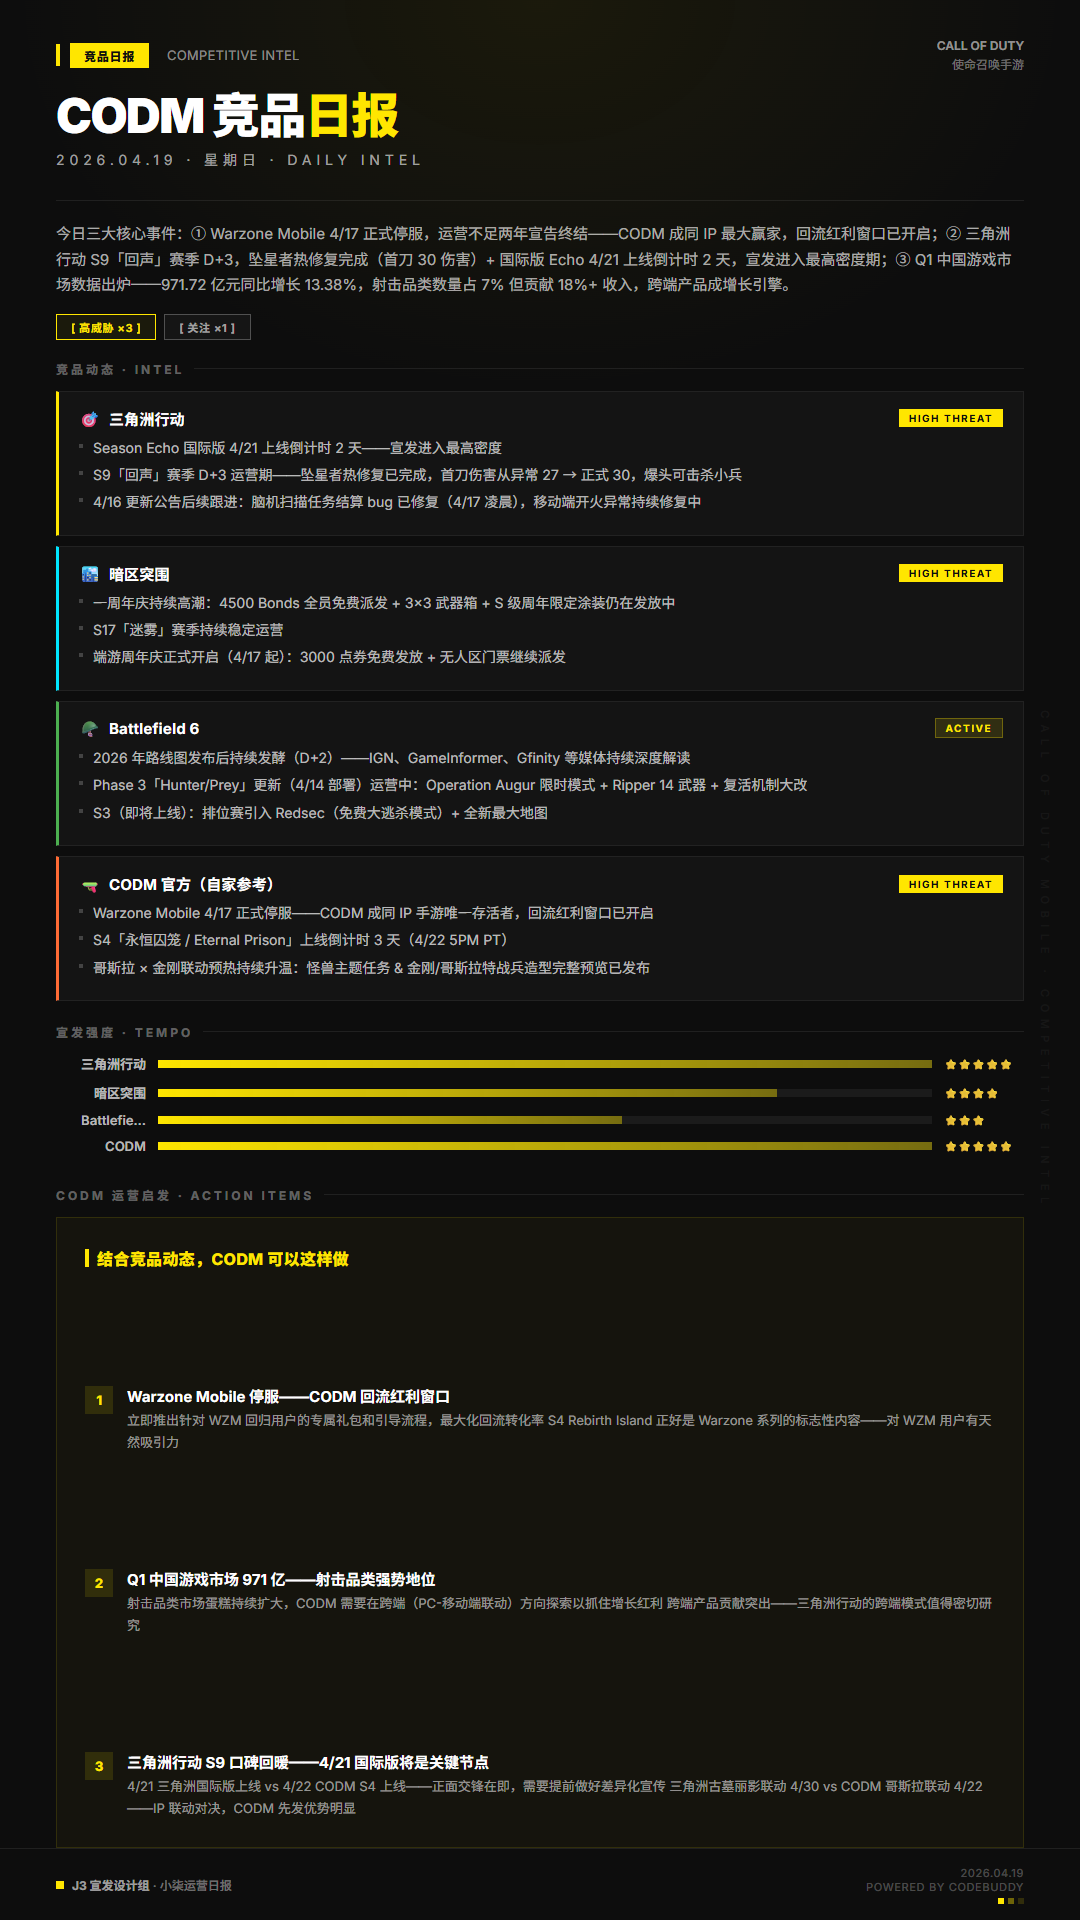
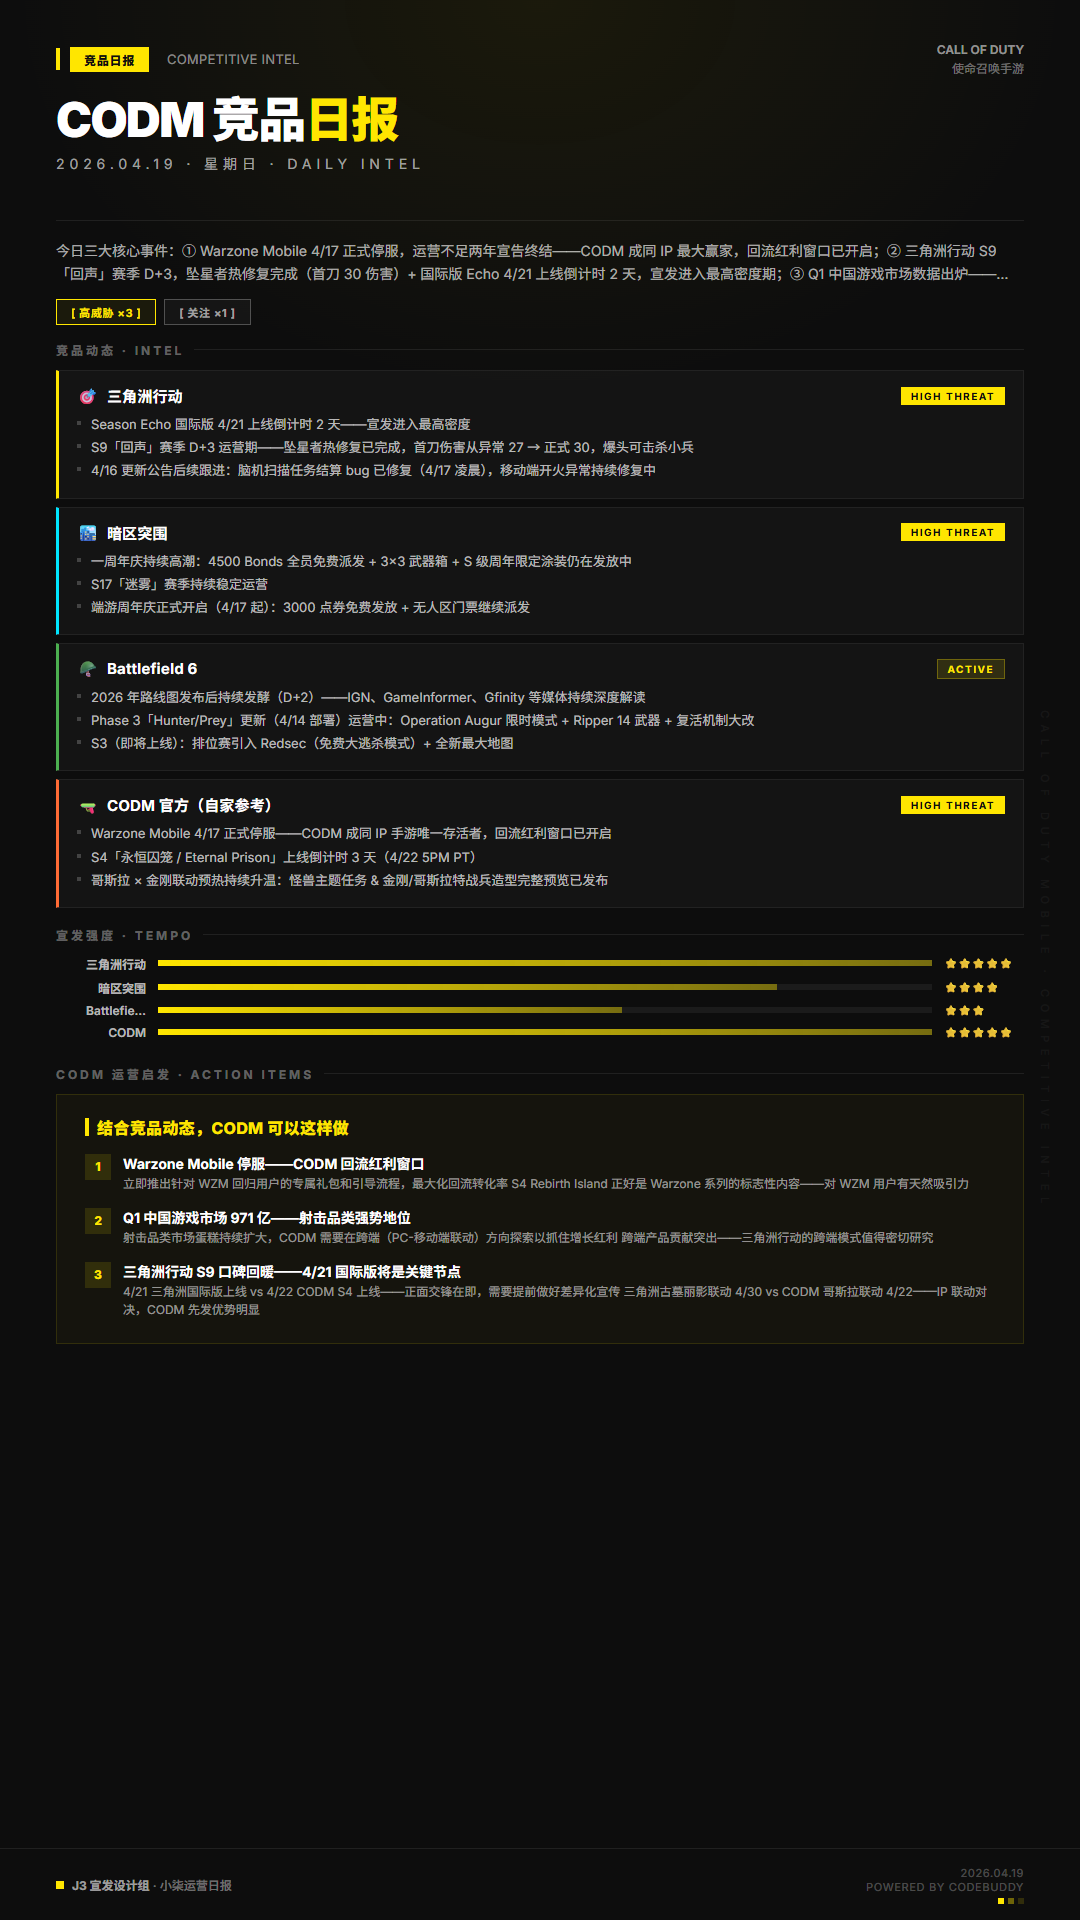
daily: CODM Competitive 20260419

diff --git a/docs/competitive-daily/competitive-daily-card-20260419.html b/docs/competitive-daily/competitive-daily-card-20260419.html
@@ -53,8 +53,8 @@
 
   /* ── Cover 区 ── */
   .cover {
-    height: 200px;
-    padding: 36px 56px 0;
+    height: 220px;
+    padding: 40px 56px 0;
     flex-shrink: 0;
     position: relative;
     z-index: 1;
@@ -134,16 +134,16 @@
 
   /* ── 概览区 ── */
   .overview {
-    padding: 20px 56px 16px;
+    padding: 18px 56px 14px;
     flex-shrink: 0;
   }
 
   .overview-text {
-    font-size: 15px;
+    font-size: 14px;
     color: rgba(255,255,255,0.65);
-    line-height: 1.7;
+    line-height: 1.65;
     display: -webkit-box;
-    -webkit-line-clamp: 4;
+    -webkit-line-clamp: 2;
     -webkit-box-orient: vertical;
     overflow: hidden;
   }
@@ -155,7 +155,7 @@
     display: flex;
     gap: 8px;
     padding: 0 56px;
-    margin-bottom: 20px;
+    margin-bottom: 16px;
     flex-shrink: 0;
   }
 
@@ -194,7 +194,7 @@
     color: rgba(255,255,255,0.35);
     letter-spacing: 0.25em;
     text-transform: uppercase;
-    margin-bottom: 14px;
+    margin-bottom: 12px;
     display: flex;
     align-items: center;
     gap: 10px;
@@ -212,8 +212,8 @@
   .comp-cards {
     display: flex;
     flex-direction: column;
-    gap: 10px;
-    margin-bottom: 22px;
+    gap: 8px;
+    margin-bottom: 18px;
     flex-shrink: 0;
   }
 
@@ -221,7 +221,7 @@
     background: #141414;
     border: 0.5px solid rgba(255,255,255,0.06);
     border-left: 3px solid #888;
-    padding: 16px 20px;
+    padding: 14px 18px;
   }
 
   .comp-header {
@@ -267,12 +267,12 @@
   }
 
   .comp-highlight {
-    font-size: 14px;
+    font-size: 13px;
     color: rgba(255,255,255,0.7);
-    line-height: 1.6;
+    line-height: 1.55;
     padding-left: 14px;
     position: relative;
-    margin-bottom: 5px;
+    margin-bottom: 3px;
   }
 
   .comp-highlight::before {
@@ -287,7 +287,7 @@
 
   /* ── 宣发节奏对比 ── */
   .tempo-section {
-    margin-bottom: 22px;
+    margin-bottom: 18px;
     flex-shrink: 0;
   }
 
@@ -295,12 +295,12 @@
     display: flex;
     align-items: center;
     gap: 12px;
-    margin-bottom: 10px;
+    margin-bottom: 7px;
   }
 
   .tempo-name {
     width: 90px;
-    font-size: 13px;
+    font-size: 12px;
     font-weight: 600;
     color: rgba(255,255,255,0.7);
     flex-shrink: 0;
@@ -309,7 +309,7 @@
 
   .tempo-bar-bg {
     flex: 1;
-    height: 8px;
+    height: 6px;
     background: rgba(255,255,255,0.06);
     position: relative;
   }
@@ -328,21 +328,19 @@
 
   /* ── CODM 运营启发 ── */
   .insights-section {
-    flex: 1;
+    flex-shrink: 0;
     display: flex;
     flex-direction: column;
     overflow: hidden;
-    min-height: 0;
   }
 
   .insights-box {
     background: rgba(255,230,0,0.03);
     border: 1px solid rgba(255,230,0,0.12);
-    padding: 28px 28px;
-    flex: 1;
+    padding: 20px 28px;
     display: flex;
     flex-direction: column;
-    justify-content: space-between;
+    gap: 6px;
   }
 
   .insights-header {
@@ -353,6 +351,7 @@
     display: flex;
     align-items: center;
     gap: 8px;
+    margin-bottom: 4px;
   }
 
   .insights-header::before {
@@ -365,16 +364,17 @@
 
   .insight-item {
     display: flex;
-    gap: 14px;
+    gap: 12px;
     align-items: flex-start;
+    padding: 4px 0;
   }
 
   .insight-num {
-    width: 28px;
-    height: 28px;
+    width: 26px;
+    height: 26px;
     background: rgba(255,230,0,0.12);
     color: #FFE600;
-    font-size: 13px;
+    font-size: 12px;
     font-weight: 800;
     display: flex;
     align-items: center;
@@ -383,19 +383,24 @@
     margin-top: 1px;
   }
 
-  .insight-body { flex: 1; }
+  .insight-body {
+    flex: 1;
+    display: flex;
+    flex-direction: column;
+    gap: 2px;
+  }
 
   .insight-title {
-    font-size: 15px;
+    font-size: 14px;
     font-weight: 700;
     color: #FFFFFF;
-    margin-bottom: 4px;
+    margin-bottom: 0;
   }
 
   .insight-text {
-    font-size: 13px;
+    font-size: 12px;
     color: rgba(255,255,255,0.55);
-    line-height: 1.65;
+    line-height: 1.5;
   }
 
   /* ── Footer ── */
@@ -407,6 +412,7 @@
     justify-content: space-between;
     border-top: 1px solid rgba(255,255,255,0.08);
     flex-shrink: 0;
+    margin-top: auto;
   }
 
   .footer-left {
@@ -482,7 +488,7 @@
 
   <!-- 概览 -->
   <div class="overview">
-    <div class="overview-text">今日三大核心事件：① Warzone Mobile 4/17 正式停服，运营不足两年宣告终结——CODM 成同 IP 最大赢家，回流红利窗口已开启；② 三角洲行动 S9「回声」赛季 D+3，坠星者热修复完成（首刀 30 伤害）+ 国际版 Echo 4/21 上线倒计时 2 天，宣发进入最高密度期；③ Q1 中国游戏市场数据出炉——971.72 亿元同比增长 13.38%，射击品类数量占 7% 但贡献 18%+ 收入，跨端产品成增长引擎。</div>
+    <div class="overview-text">今日三大核心事件：① Warzone Mobile 4/17 正式停服，运营不足两年宣告终结——CODM 成同 IP 最大赢家，回流红利窗口已开启；② 三角洲行动 S9「回声」赛季 D+3，坠星者热修复完成（首刀 30 伤害）+ 国际版 Echo 4/21 上线倒计时 2 天，宣发进入最高密度期；③ Q1 中国游戏市场数据出炉——971.72 亿元同比增长 13.38%，射击品类数量占 7% 但贡</div>
   </div>
 
   <!-- 威胁条 -->
